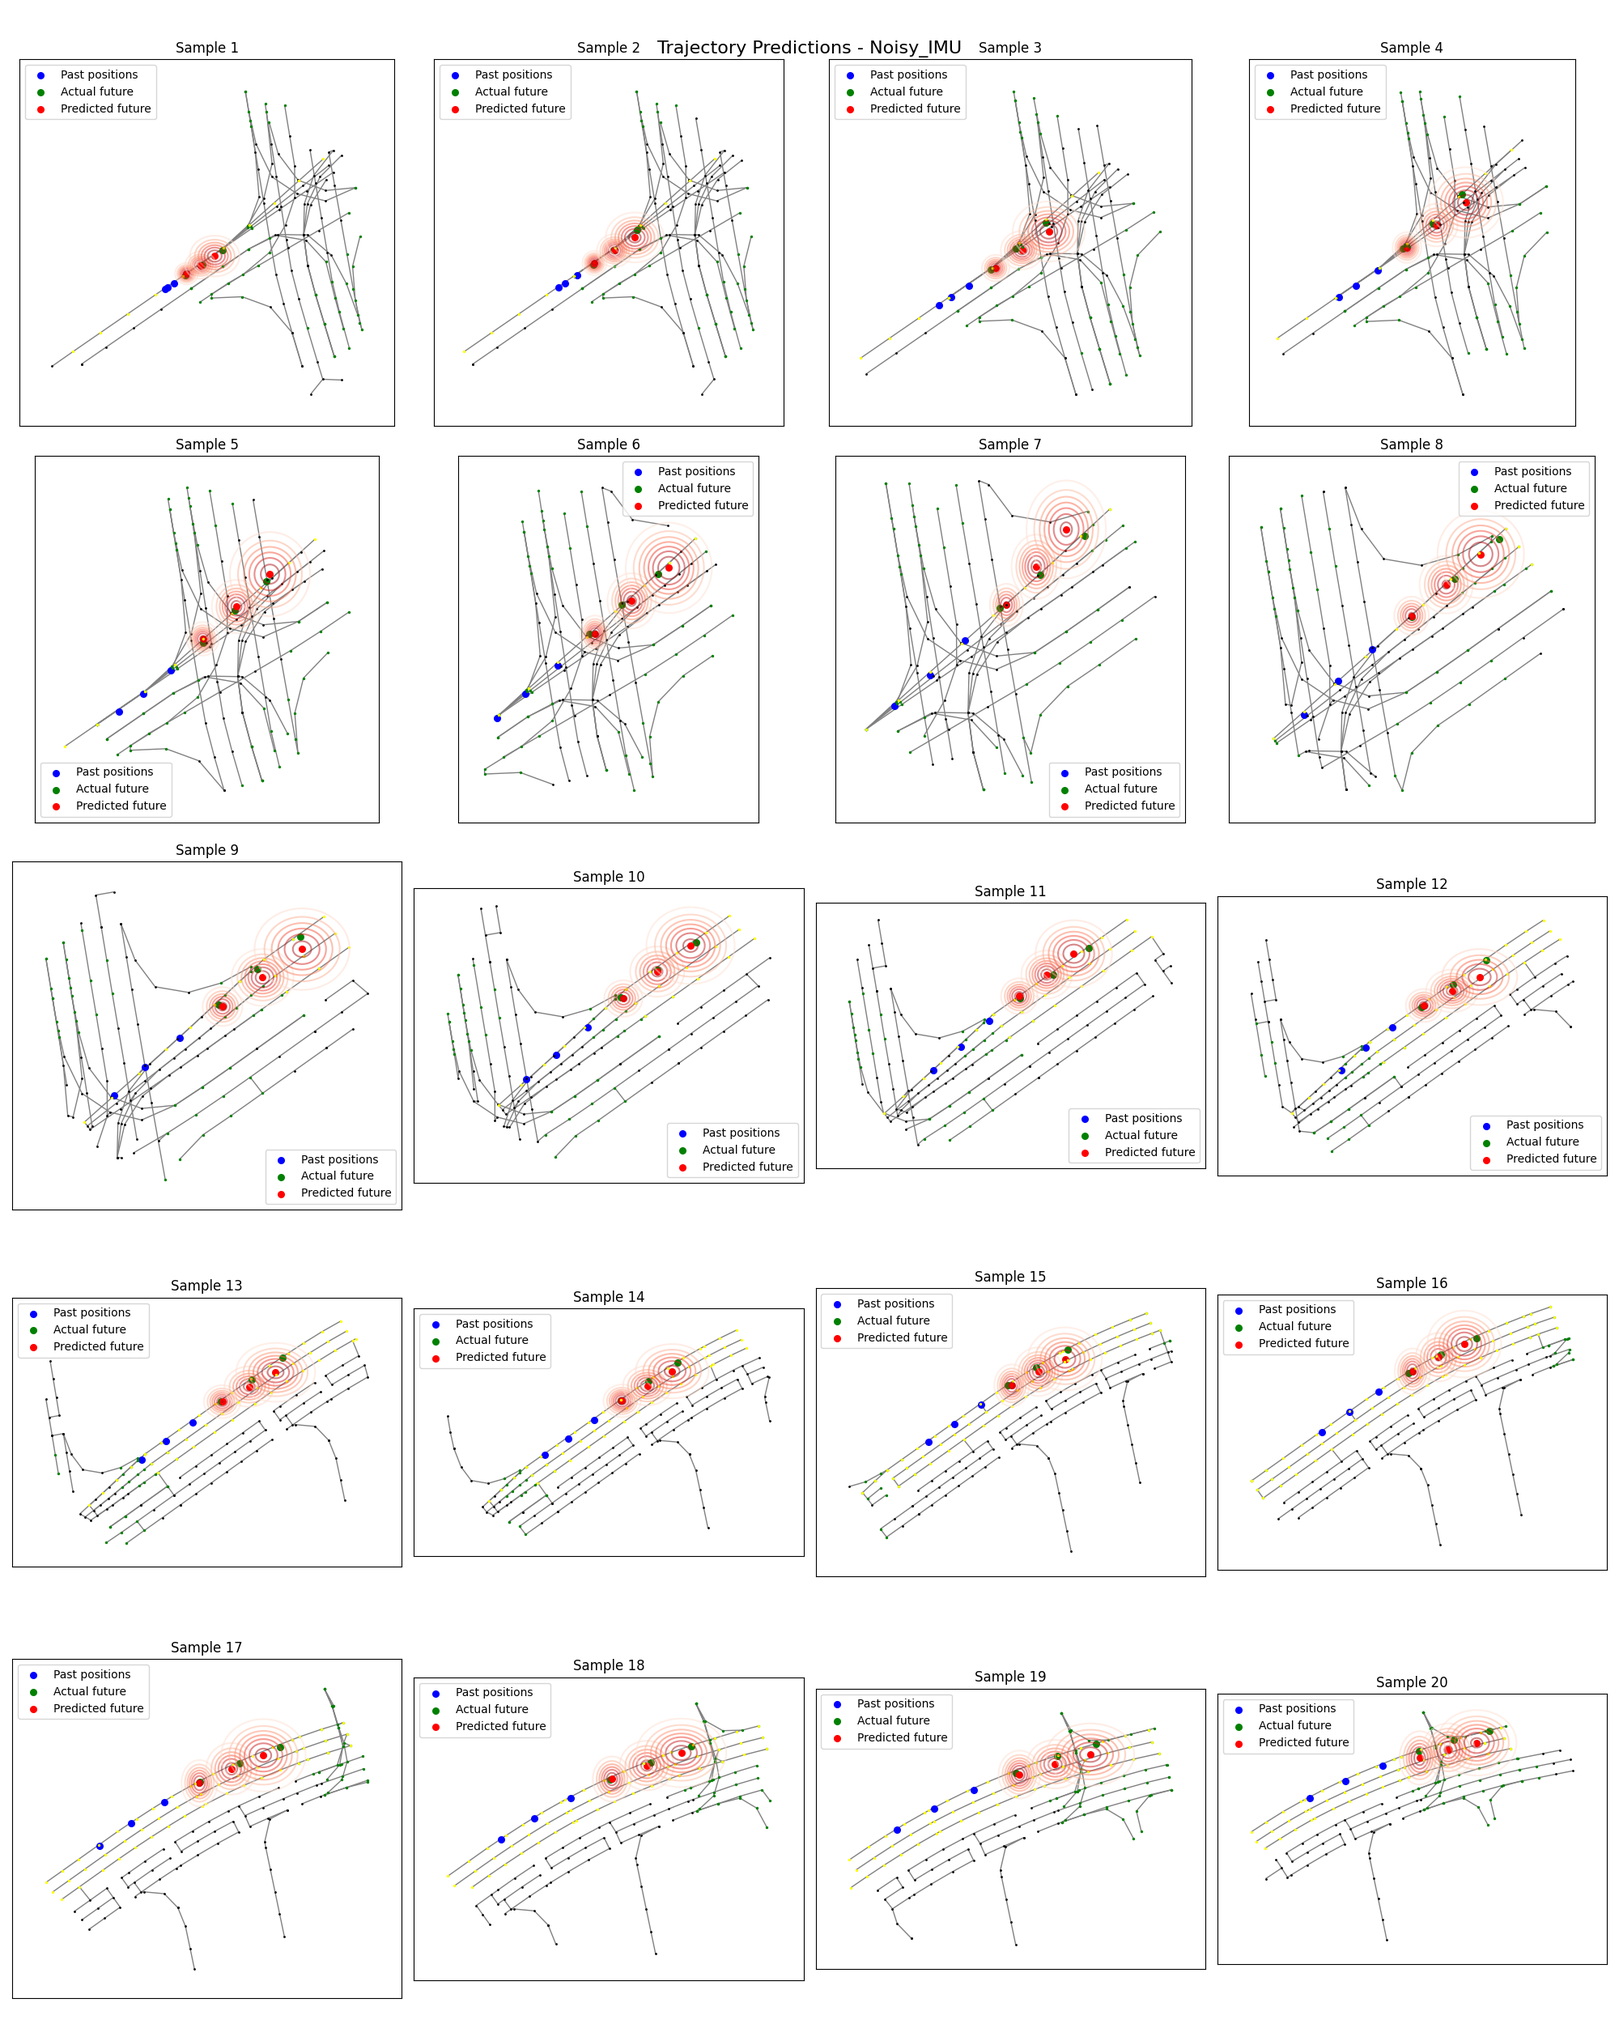
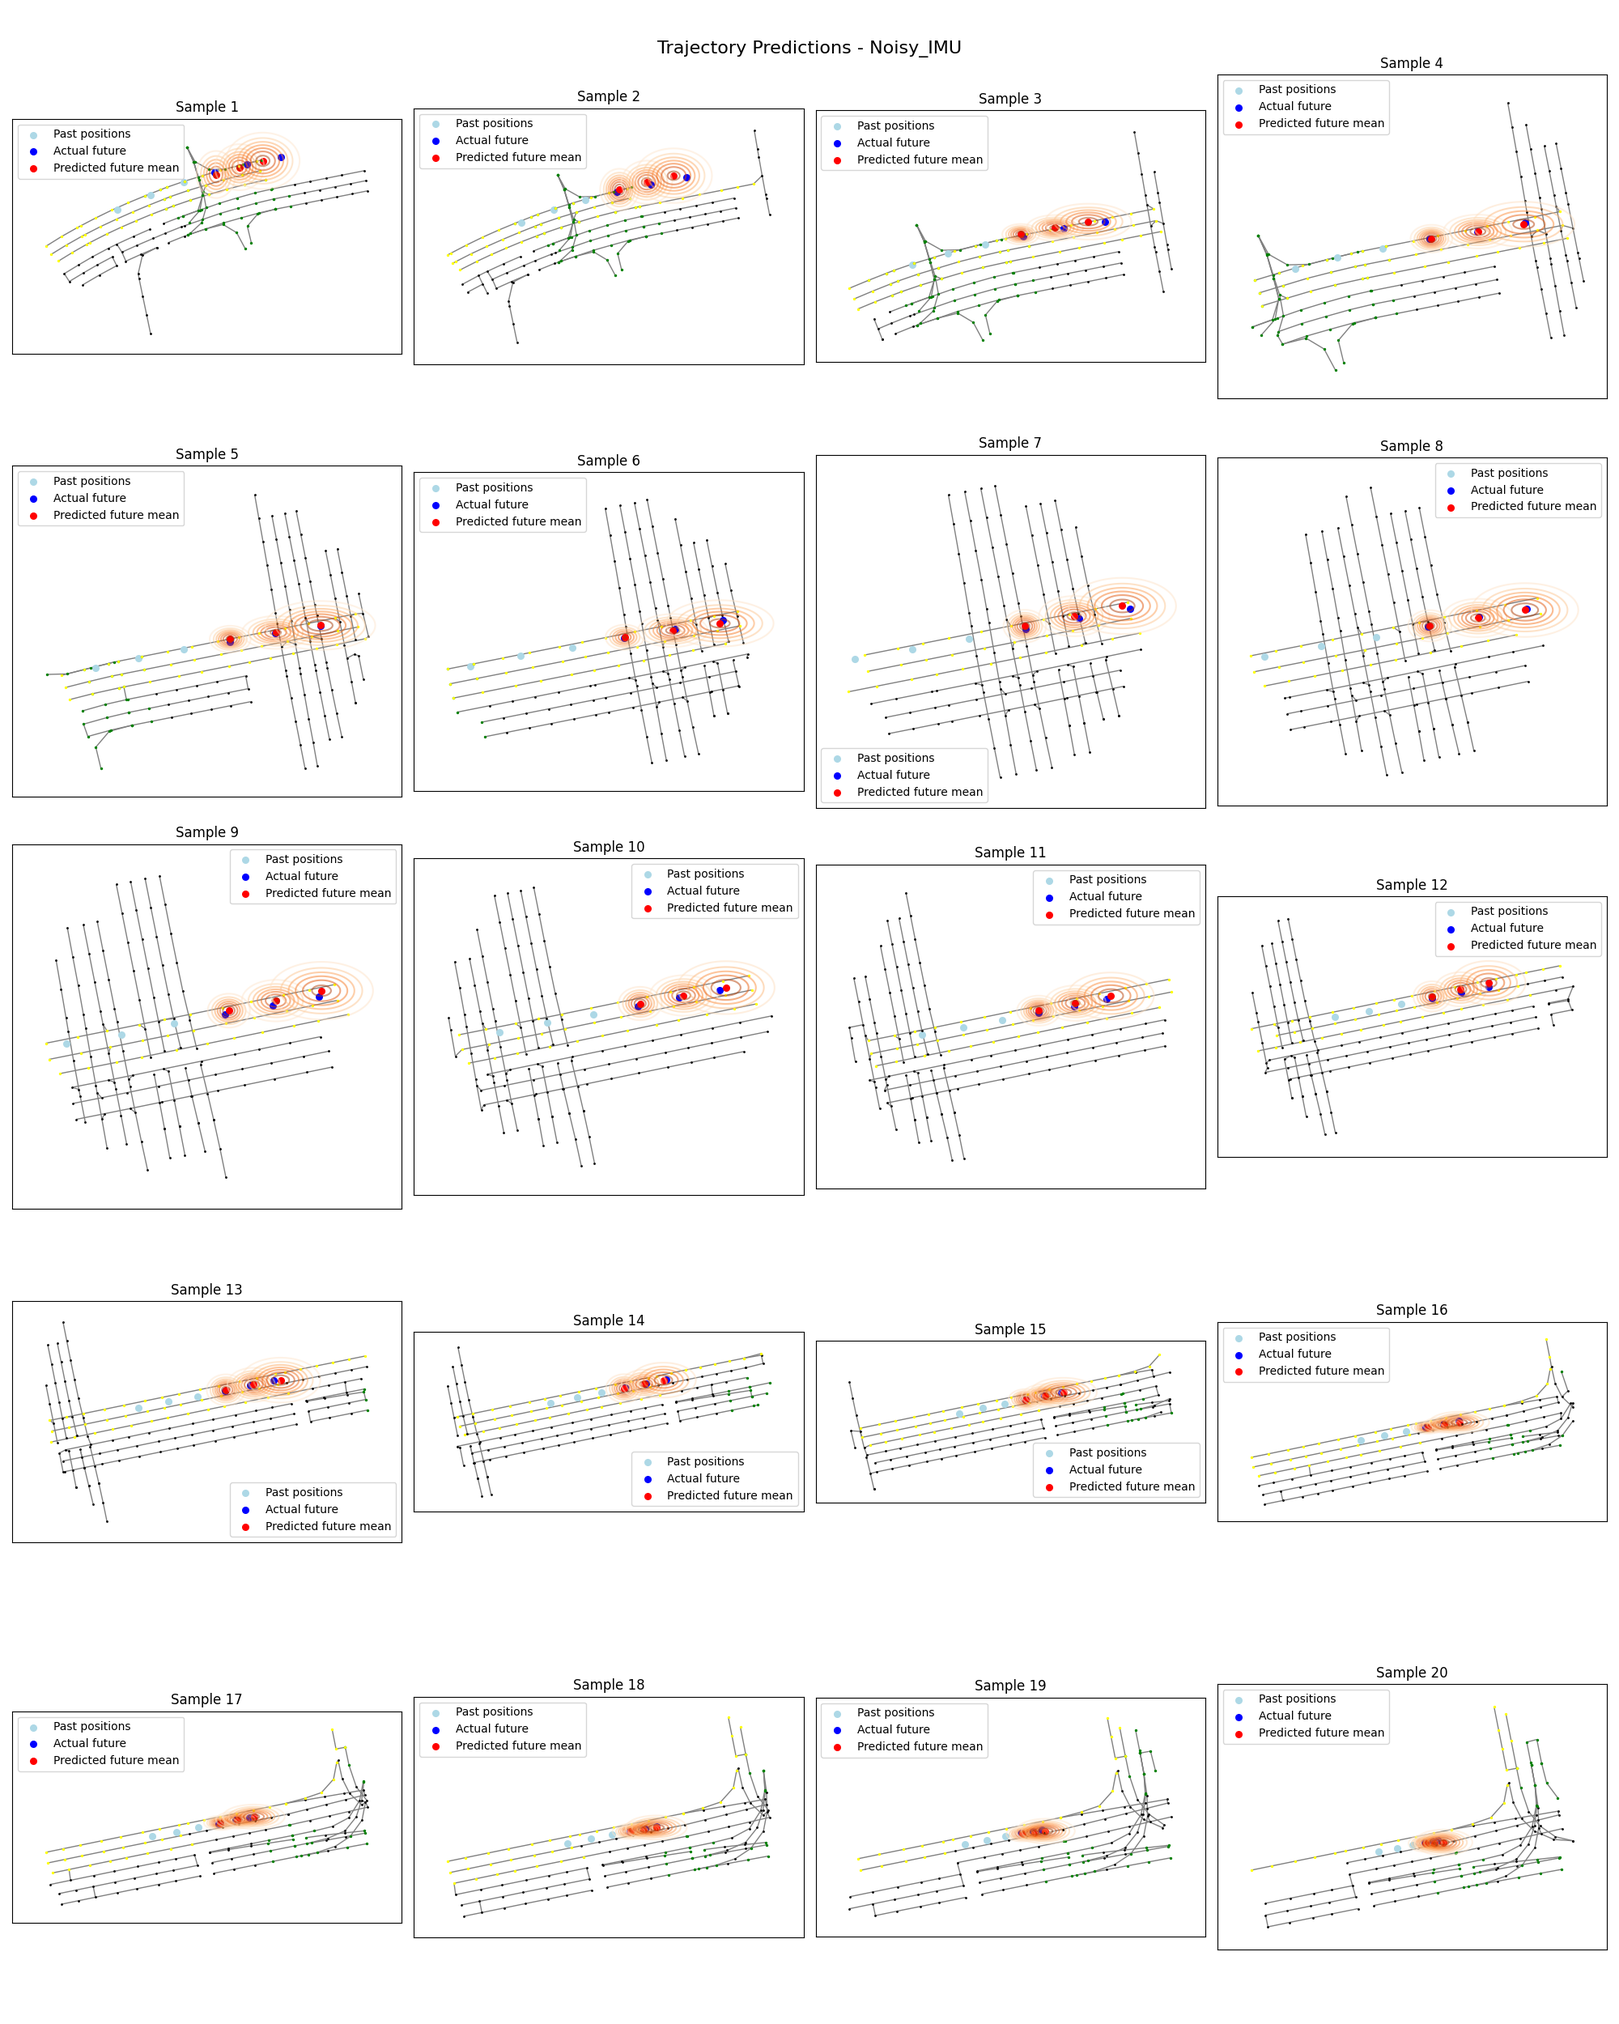
prediction plots

diff --git a/Visualization/visualizer.py b/Visualization/visualizer.py
@@ -2,7 +2,9 @@ import torch
 import matplotlib.pyplot as plt
 import networkx as nx
 import numpy as np
-from scipy.stats import multivariate_normal
+from scipy.stats import multivariate_normal, norm
+import matplotlib.gridspec as gridspec
+from matplotlib.patches import Ellipse
 
 from Visualization.Rescaler import GraphBoundsScaler
 
@@ -32,17 +34,17 @@ def plot_graph_and_trajectories(sequence, scaling_factor, predicted_future, ax):
 
     # Plot past trajectory
     past_positions = np.array([scaler.restore_position(step['position'][0] * scaling_factor, step['position'][1] * scaling_factor) for step in sequence['past']])
-    ax.scatter(past_positions[:, 0], past_positions[:, 1], c='blue', s=30, label='Past positions')
+    ax.scatter(past_positions[:, 0], past_positions[:, 1], c='lightblue', s=30, label='Past positions')
 
     # Plot actual future trajectory
     future_positions = np.array([scaler.restore_position(step['position'][0] * scaling_factor, step['position'][1] * scaling_factor) for step in sequence['future']])
-    ax.scatter(future_positions[:, 0], future_positions[:, 1], c='green', s=30, label='Actual future')
+    ax.scatter(future_positions[:, 0], future_positions[:, 1], c='blue', s=30, label='Actual future')
 
     # Plot predicted future trajectory with uncertainty
     pred_positions = np.array([scaler.restore_mean(x, y) for x, y in predicted_future['position_mean']])
     pred_variances = np.array([scaler.restore_variance(x, y) for x, y in predicted_future['position_var']])
 
-    ax.scatter(pred_positions[:, 0], pred_positions[:, 1], c='red', s=30, label='Predicted future')
+    ax.scatter(pred_positions[:, 0], pred_positions[:, 1], c='red', s=30, label='Predicted future mean')
     
     # Visualize uncertainty as distributions
     for i in range(len(pred_positions)):
@@ -51,8 +53,26 @@ def plot_graph_and_trajectories(sequence, scaling_factor, predicted_future, ax):
         pos = np.dstack((x, y))
 
         rv = multivariate_normal([pred_positions[i, 0], pred_positions[i, 1]], [[pred_variances[i, 0], 0], [0, pred_variances[i, 1]]])
-        ax.contour(x, y, rv.pdf(pos), cmap="Reds", alpha=0.5)
+        ax.contour(x, y, rv.pdf(pos), cmap="Oranges", alpha=0.5)
 
+    # Visualize uncertainty as ellipses
+    #for i in range(len(pred_positions)):
+    #    ellipse = Ellipse(xy=pred_positions[i], 
+    #                  width=6*np.sqrt(pred_variances[i, 0]), 
+    #                  height=6*np.sqrt(pred_variances[i, 1]),
+    #                  angle=0,  # Assuming no correlation between x and y uncertainties
+    #                  facecolor='red', alpha=0.3)
+    #    ax.add_patch(ellipse)
+
+    # Visualize uncertainty as heatmaps
+    #for i in range(len(pred_positions)):
+    #    x, y = np.mgrid[pred_positions[i, 0] - 3*np.sqrt(pred_variances[i, 0]):pred_positions[i, 0] + 3*np.sqrt(pred_variances[i, 0]):0.1, 
+    #                    pred_positions[i, 1] - 3*np.sqrt(pred_variances[i, 1]):pred_positions[i, 1] + 3*np.sqrt(pred_variances[i, 1]):0.1]
+    #    pos = np.dstack((x, y))
+
+    #    rv = multivariate_normal([pred_positions[i, 0], pred_positions[i, 1]], [[pred_variances[i, 0], 0], [0, pred_variances[i, 1]]])
+    #    ax.imshow(rv.pdf(pos), extent=[x.min(), x.max(), y.min(), y.max()], cmap="Reds", alpha=0.5, origin='lower')
+    
     ax.legend()
     ax.set_aspect('equal')
 
@@ -85,25 +105,28 @@ def plot_3d_distributions(predictions, past_positions, future_positions, all_gra
             mean = pred_pos[t]
             cov = np.diag(pred_var[t])
             Z = multivariate_normal.pdf(np.dstack((X, Y)), mean=mean, cov=cov)
+            Z = Z * 1000
             ax.plot_surface(X, Y, Z, cmap=colors[t], alpha=0.3)
         
         ax.set_xlabel('X')
         ax.set_ylabel('Y')
         ax.set_zlabel('Probability')
+        ax.set_zlim(0, 1)
         ax.legend()
         ax.set_title(f'Sequence {i+1}')
     
     plt.tight_layout()
-    plt.savefig(f"predictions/sequence_pdf_{condition}.png")
+    plt.savefig(f"predictions/sequence_{condition}.png")
     plt.close()
 
-def plot_distributions_by_timestep(predictions, past_positions, future_positions, all_graph_bounds, condition):
+def plot_pos_distributions_by_timestep(predictions, past_positions, future_positions, all_graph_bounds, condition):
     num_samples = len(predictions)
     num_timesteps = num_samples + 2
     rows = int(np.ceil(np.sqrt(num_timesteps)))
     cols = int(np.ceil(num_timesteps / rows))
     
     fig = plt.figure(figsize=(5*cols, 5*rows))
+
     colors = ['viridis', 'plasma', 'inferno']
 
     for timestep in range(num_timesteps):
@@ -138,6 +161,7 @@ def plot_distributions_by_timestep(predictions, past_positions, future_positions
                     mean += mean_shift
 
                     Z = multivariate_normal.pdf(np.dstack((X, Y)), mean=mean, cov=cov)
+                    Z = Z * 1000
                     ax.plot_surface(X, Y, Z, cmap=colors[seq_idx % 3], alpha=0.3)
                     ax.scatter(mean[0], mean[1], 0, c='r', marker='x',
                                label='Predicted Mean' if seq_idx == relevant_sequences[0] else "")
@@ -147,30 +171,174 @@ def plot_distributions_by_timestep(predictions, past_positions, future_positions
         ax.set_xlabel('X')
         ax.set_ylabel('Y')
         ax.set_zlabel('Probability')
+        ax.set_zlim(0, 1)
         ax.legend()
         ax.set_title(f'Timestep {timestep + 1}')
 
     plt.tight_layout()
-    plt.savefig(f"predictions/timestep_pdf_{condition}.png")
+    plt.savefig(f"predictions/timestep_position_{condition}.png")
     plt.close()
+
+def plot_vel_distributions_by_timestep(predictions, past_velocities, future_velocities, condition):
+    num_samples = len(predictions)
+    num_timesteps = num_samples + 2
+    rows = int(np.ceil(np.sqrt(num_timesteps)))
+    cols = int(np.ceil(num_timesteps / rows))
+    
+    fig = plt.figure(figsize=(5*cols, 5*rows))
+
+    colors = ['viridis', 'plasma', 'inferno']
+
+    for timestep in range(num_timesteps):
+        ax = fig.add_subplot(rows, cols, timestep + 1, projection='3d')
+        relevant_sequences = [i for i in range(num_samples) if timestep in range(i, i + 3)]
+
+        future_vel_for_timestep = []
+        for seq_idx in relevant_sequences:
+            future_vel = np.array([[x, y] for x, y in future_velocities[seq_idx]])
+            future_vel_for_timestep.append(future_vel[timestep - seq_idx])
+
+        if future_vel_for_timestep:
+            mean_future_vel = np.mean(future_vel_for_timestep, axis=0)
+            
+            #padding = 10
+            #x = np.linspace(mean_future_vel[0] - padding, mean_future_vel[0] + padding, 100)
+            #y = np.linspace(mean_future_vel[1] - padding, mean_future_vel[1] + padding, 100)
+
+            x = np.linspace(0, 100, 100)
+            y = np.linspace(0, 100, 100)
+            
+            X, Y = np.meshgrid(x, y)
+        
+            for seq_idx in relevant_sequences:
+                pred_mean = np.array([[x, y] for x, y in predictions[seq_idx]['velocity_mean']])
+                pred_var = np.array([[x, y] for x, y in predictions[seq_idx]['velocity_var']])
+
+                t = timestep - seq_idx
+                if 0 <= t < len(pred_mean):
+                    mean = pred_mean[t]
+                    cov = np.diag(pred_var[t])
+
+                    original_future_vel = future_velocities[seq_idx][t]
+                    mean_shift = mean_future_vel - original_future_vel
+                    mean += mean_shift
+
+                    Z = multivariate_normal.pdf(np.dstack((X, Y)), mean=mean, cov=cov)
+                    Z = Z * 100
+                    ax.plot_surface(X, Y, Z, cmap=colors[seq_idx % 3], alpha=0.3)
+                    ax.scatter(mean[0], mean[1], 0, c='r', marker='x',
+                               label='Predicted Mean' if seq_idx == relevant_sequences[0] else "")
+
+            ax.scatter(mean_future_vel[0], mean_future_vel[1], 0, c='g', marker='o', label='Mean Ground Truth')
+
+        ax.set_xlabel('X')
+        ax.set_ylabel('Y')
+        ax.set_zlabel('Probability')
+        ax.set_zlim(0, 1)
+        ax.legend()
+        ax.set_title(f'Timestep {timestep + 1}')
+
+    plt.tight_layout()
+    plt.savefig(f"predictions/timestep_velocity_{condition}.png")
+    plt.close()
+
+def plot_steer_distributions_by_timestep(predictions, past_steering, future_steering, condition):
+    num_samples = len(predictions)
+    num_timesteps = num_samples + 2
+    rows = int(np.ceil(np.sqrt(num_timesteps)))
+    cols = int(np.ceil(num_timesteps / rows))
+    
+    fig = plt.figure(figsize=(5*cols, 5*rows))
+
+    colors = ['red', 'orange', 'yellow']
+
+    for timestep in range(num_timesteps):
+        ax = fig.add_subplot(rows, cols, timestep + 1)
+        relevant_sequences = [i for i in range(num_samples) if timestep in range(i, i + 3)]
+
+        future_ste_for_timestep = []
+        for seq_idx in relevant_sequences:
+            future_ste = np.array([s for s in future_steering[seq_idx]])
+            
+            # Rescaling steer values down to -0.5 to 0.5
+            future_ste = -0.5 + future_ste / 100
+            
+            future_ste_for_timestep.append(future_ste[timestep - seq_idx])
+        
+
+        if future_ste_for_timestep:
+            mean_future_ste = np.mean(future_ste_for_timestep, axis=0)
+
+            X = np.linspace(0, 100, 100)
+            X = np.linspace(-0.5, 0.5, 100)
+
+            for seq_idx in relevant_sequences:
+                pred_mean = predictions[seq_idx]['steering_mean']
+                pred_var = predictions[seq_idx]['steering_var']
+
+                # Rescaling steer values down to -0.5 to 0.5
+                pred_mean = -0.5 + pred_mean / 100
+                pred_var = pred_var * (0.01)**2
+
+                t = timestep - seq_idx
+                if 0 <= t < len(pred_mean):
+                    mean = pred_mean[t]
+                    std_dev = np.sqrt(pred_var[t])
+                    
+                    original_future_ste = future_steering[seq_idx][t]
+
+                    # Rescaling
+                    original_future_ste = -0.5 + original_future_ste / 100
+
+                    mean_shift = mean_future_ste - original_future_ste
+                    mean += mean_shift
+
+                    Y = norm.pdf(X, mean, std_dev)
+
+                    Y = Y / 100
+
+                    ax.plot(X, Y)
+                    
+                    ax.vlines(mean, ymin=0, ymax=1, colors=colors[t], linestyles='--', label='Predicted Sequence ' + str(seq_idx+1))
+                    
+            ax.vlines(mean_future_ste, ymin=0, ymax=1, colors='g', linestyles='-', label='Ground Truth')
+
+        ax.set_xlabel('Steering')
+        ax.set_ylabel('Probability')
+        ax.set_xlim(-0.5, 0.5)
+        ax.set_ylim(0, 1)
+        ax.legend()
+        ax.set_title(f'Timestep {timestep + 1}')
+
+    plt.tight_layout()
+    plt.savefig(f"predictions/timestep_steering_{condition}.png")
+    plt.close()
+
 
 def visualize_predictions(dataset, scaling_factor, predictions, sampled_indices, condition):
     num_samples = len(predictions)
     rows = int(np.ceil(np.sqrt(num_samples)))
     cols = int(np.ceil(num_samples / rows))
     
-    fig, axes = plt.subplots(rows, cols, figsize=(5*cols, 5*rows))
+    #fig, axes = plt.subplots(rows, cols, figsize=(5*cols, 5*rows))
+    #fig, axes = plt.subplots(rows, cols, figsize=(20, 20))
+    #fig, axes = plt.subplots(rows, cols, figsize=(20, 20), sharex=True, sharey=True)
+
+    fig = plt.figure(figsize=(5*cols, 5*rows))
+    gs = gridspec.GridSpec(rows, cols, figure=fig)
+
     fig.suptitle(f"Trajectory Predictions - {condition}", fontsize=16)
 
     for i, (pred, idx) in enumerate(zip(predictions, sampled_indices)):
-        ax = axes[i // cols, i % cols] if num_samples > 1 else axes
+        ax = fig.add_subplot(gs[i // cols, i % cols])
+        #ax = axes[i // cols, i % cols] if num_samples > 1 else axes
         sequence = dataset.data[idx]
         plot_graph_and_trajectories(sequence, scaling_factor, pred, ax)
         ax.set_title(f"Sample {i+1}")
 
     # Hide any unused subplots
-    for i in range(num_samples, rows * cols):
-        axes.flatten()[i].axis('off')
+    #for i in range(num_samples, rows * cols):
+    #    axes.flatten()[i].axis('off')
 
     plt.tight_layout()
     plt.savefig(f"predictions/trajectory_prediction_{condition}.png")

diff --git a/create_plots.py b/create_plots.py
@@ -22,14 +22,28 @@ def main():
         # Make predictions
         predictions, sampled_sequences = make_predictions(model, dataset, CONFIG)
 
+        #CONFIG['num_samples'] = len(predictions)
+
         # Extract past and future positions
         past_positions = []
         future_positions = []
+        past_velocities = []
+        future_velocities = []
+        past_steering = []
+        future_steering = []
         all_graph_bounds = []
         for i in range(CONFIG['sample_start_index'], CONFIG['sample_start_index'] + CONFIG['num_samples']):
             past, future, graph, graph_bounds = dataset[i]
+            
             past_positions.append(past['position'].numpy())
             future_positions.append(future['position'].numpy())
+            
+            past_velocities.append(past['velocity'].numpy())
+            future_velocities.append(future['velocity'].numpy())
+            
+            past_steering.append(past['steering'].numpy())
+            future_steering.append(future['steering'].numpy())
+            
             all_graph_bounds.append(graph_bounds)
 
         # Visualizations
@@ -39,8 +53,14 @@ def main():
         plot_3d_distributions(predictions, past_positions, future_positions, all_graph_bounds, condition)
         print(f"{condition} sequence distribution viz. done!")
 
-        plot_distributions_by_timestep(predictions, past_positions, future_positions, all_graph_bounds, condition)
-        print(f"{condition} time step distribution viz. done!")
+        plot_pos_distributions_by_timestep(predictions, past_positions, future_positions, all_graph_bounds, condition)
+        print(f"{condition} time step position distribution viz. done!")
+
+        plot_vel_distributions_by_timestep(predictions, past_velocities, future_velocities, condition)
+        print(f"{condition} time step velocity distribution viz. done!")
+
+        plot_steer_distributions_by_timestep(predictions, past_steering, future_steering, condition)
+        print(f"{condition} time step steering distribution viz. done!")
 
 if __name__ == "__main__":
     main()

diff --git a/model_config.py b/model_config.py
@@ -18,6 +18,7 @@ CONFIG = {
     'model_path': 'models/graph_trajectory_model.pth',
     'device': torch.device("cuda" if torch.cuda.is_available() else "cpu"),
     'num_samples': 20,
-    'sample_start_index': 20,
+    'sample_start_index': 40,
     'conditions': ['Nominal', 'Noisy_Camera', 'Noisy_GNSS', 'Noisy_IMU', 'Noisy_Lidar']
+    #'conditions': ['Nominal']
 }
